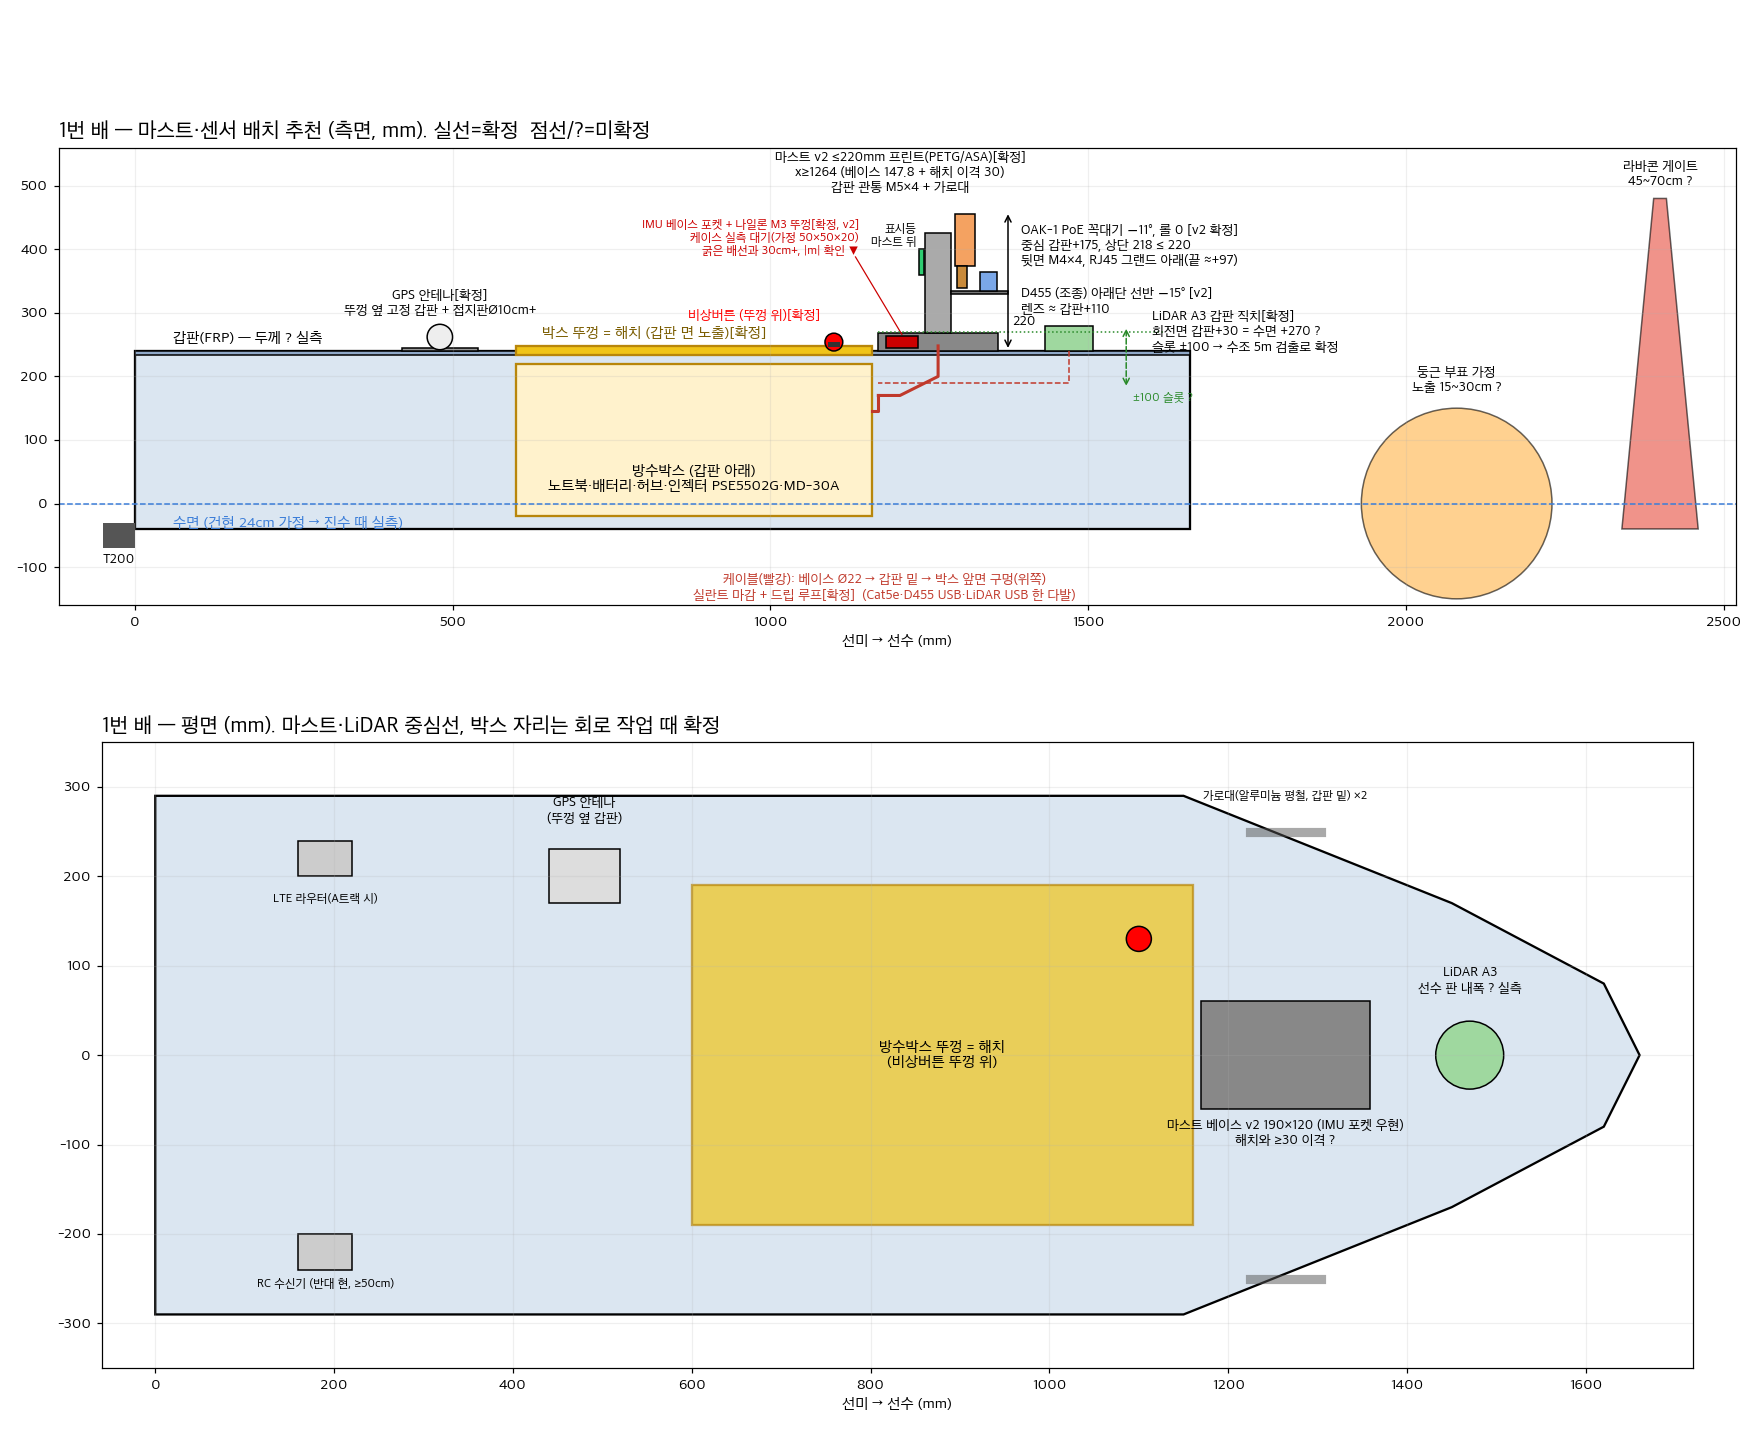
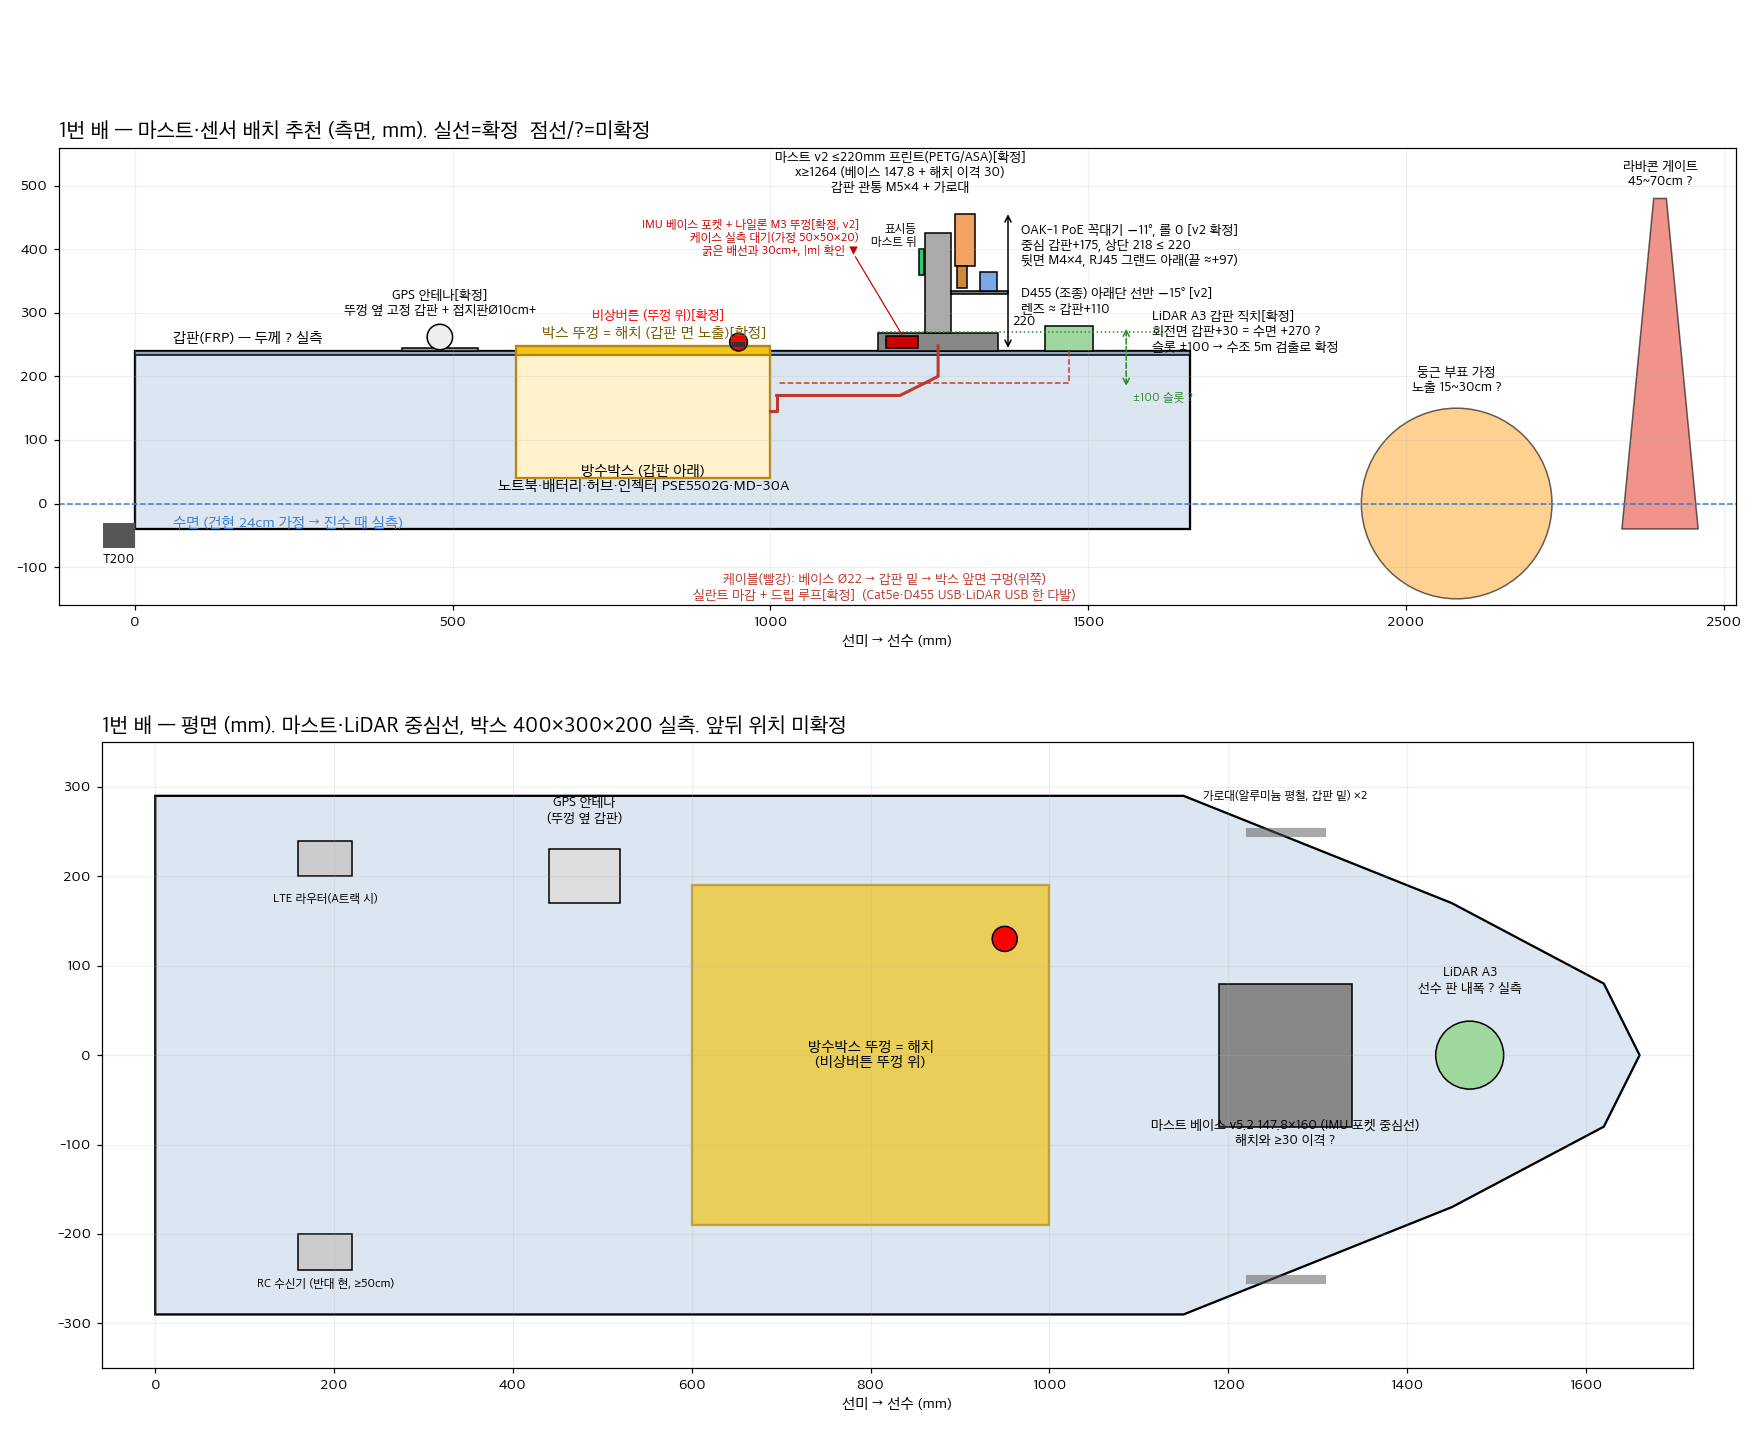
docs: 방수박스 실측 400x300x200 — 배치 한계 재계산, 배치도의 틀린 치수 정정
박스 실측치가 저장소에 없었다. 배치도 스크립트가 길이 560(600~1160)으로
그리고 있었는데 실측은 400 이다. 160mm 짧다.

높이 200:
  1번배 깊이 280 -> 들어감 (여유 80)
  2번배 깊이 185 -> 15mm 모자라 뚜껑이 갑판 위로 돌출. 팀 승인(09-17).
  돌출이 오히려 물 빠짐에 유리하다 — 평평하면 이음새에 물이 고인다.

폭:
  2번배 폭 430 이라 400 을 좌우로 두면 편측 15mm 뿐.
  -> 2번배는 300 을 좌우, 400 을 앞뒤로 놓는다. 1번배는 자유.

앞뒤 위치 (팀 요청 '앞에서 1/3'):
  제약 사슬 = 박스앞+30 <= 마스트베이스뒤, 마스트베이스앞+30 <= 라이다뒤
  1번배 한계 824~1224, 중심이 선수에서 38.3%. 1/3(33%)은 못 간다.
    1/3 을 맞추려면 라이다를 1470->1552 로 82mm 전진해야 하는데
    A3 는 방수가 아니고 선수 끝이 물보라 1순위라 치를 값이 아니다.
    이 안의 부수효과: 라이다 하네스 246mm(300 안), GPS 가림 15.9도(현재 17.2보다 개선)
  2번배는 마스트 1130 기준 626~1026, 중심 51.4%. GPS 접지판 여유가 31mm 뿐이다.

내부 24리터에 노트북·배터리2·MD-30A·인젝터·허브·Mega·GPS수신기·ESC4 가
들어가야 한다. ESC 발열 구획 요구까지 있어 실물 확인이 필요하다.

배치도 스크립트 정정: 박스 길이 400·높이 200, 마스트 베이스를 실제
147.8x160(placement.json)으로, 비상버튼을 뚜껑 위로. 위치는 미확정이라
박스 뒤끝 600 유지하고 전진안은 문서에만 남긴다.

diff --git a/tools/mast_recommend_plot.py b/tools/mast_recommend_plot.py
@@ -25,21 +25,22 @@ ax.add_patch(Rectangle((0, DECK - 6), L, 6, fc="#8fa8c8", ec="k", lw=1)); ax.tex
 # T200
 ax.add_patch(Rectangle((-50, -70), 50, 40, fc="#555")); ax.text(-50, -95, "T200", fontsize=9)
 # 방수박스 (갑판 아래) + 뚜껑=해치
-BX0, BX1 = 600, 1160
-ax.add_patch(Rectangle((BX0, FB - DEPTH + 20), BX1 - BX0, DECK - 20 - (FB - DEPTH + 20), fc="#fff2cc", ec="#b8860b", lw=1.5))
+BX0, BX1 = 600, 1000   # [09-17] 박스 실측 길이 400 (종전 560 은 틀린 도식값). 위치는 미확정 — 전진안은 배치_요구사항 §2-5
+BOX_H = 200   # [09-17] 실측 높이. 1번배는 갑판 밑에 다 들어간다(깊이 280)
+ax.add_patch(Rectangle((BX0, DECK - BOX_H), BX1 - BX0, BOX_H, fc="#fff2cc", ec="#b8860b", lw=1.5))
 ax.add_patch(Rectangle((BX0, DECK - 6), BX1 - BX0, 14, fc="#f0c419", ec="#b8860b", lw=1.5))
 ax.text((BX0 + BX1) / 2, FB - DEPTH + 60, "방수박스 (갑판 아래)\n노트북·배터리·허브·인젝터 PSE5502G·MD-30A", ha="center", fontsize=10)
 ax.text(BX0 + 40, DECK + 20, "박스 뚜껑 = 해치 (갑판 면 노출)[확정]", ha="left", fontsize=10, color="#7a5c00")
 # 비상버튼 on lid
-ax.add_patch(Circle((1100, DECK + 14), 14, fc="red", ec="k")); ax.add_patch(Rectangle((1090, DECK + 6), 20, 8, fc="#333"))
-ax.text(1078, DECK + 46, "비상버튼 (뚜껑 위)[확정]", ha="right", va="bottom", fontsize=9, color="red")
+ax.add_patch(Circle((950, DECK + 14), 14, fc="red", ec="k")); ax.add_patch(Rectangle((940, DECK + 6), 20, 8, fc="#333"))
+ax.text(928, DECK + 46, "비상버튼 (뚜껑 위)[확정]", ha="right", va="bottom", fontsize=9, color="red")
 # IMU
 # GPS 안테나 옆 고정 갑판
 GX = 480
 ax.add_patch(Rectangle((GX - 60, DECK), 120, 4, fc="#999", ec="k"))
 ax.add_patch(Circle((GX, DECK + 22), 20, fc="#eee", ec="k")); ax.text(GX, DECK + 56, "GPS 안테나[확정]\n뚜껑 옆 고정 갑판 + 접지판Ø10cm+", ha="center", fontsize=9)
 # 마스트
-MX = 1264   # [09-17] 1230→1264: 베이스 147.8 깊이 + 해치 이격 30
+MX = 1264   # 박스 전진안(§2-5) 채택 시 1328 로
 ax.add_patch(Rectangle((MX - 95, DECK), 190, 28, fc="#888", ec="k"))  # base v2 (IMU 포켓, 두께 IMU 높이 따라 20~28)
 ax.add_patch(Rectangle((MX - 20, DECK + 28), 40, 158, fc="#aaa", ec="k"))  # column → 캡 상단 186
 ax.add_patch(Rectangle((MX + 20, DECK + 89), 90, 6, fc="#777", ec="k"))  # D455 선반 (갑판+95, 관 면에서 40 물림)
@@ -71,13 +72,15 @@ ax.set_xlim(-120, L + 860); ax.set_ylim(-160, 560); ax.set_aspect("equal"); ax.s
 
 # ---------------- 평면도 ----------------
 W = 580
-ax2.set_title("1번 배 — 평면 (mm). 마스트·LiDAR 중심선, 박스 자리는 회로 작업 때 확정", fontsize=14, loc="left")
+ax2.set_title("1번 배 — 평면 (mm). 마스트·LiDAR 중심선, 박스 400×300×200 실측. 앞뒤 위치 미확정", fontsize=14, loc="left")
 hull = Polygon([[0, -W/2], [1150, -W/2], [1450, -W/2 + 120], [1620, -80], [1660, 0], [1620, 80], [1450, W/2 - 120], [1150, W/2], [0, W/2]], closed=True, fc="#dbe6f1", ec="k", lw=1.5)
 ax2.add_patch(hull)
 ax2.add_patch(Rectangle((BX0, -190), BX1 - BX0, 380, fc="#f0c419", ec="#b8860b", lw=1.5, alpha=0.7)); ax2.text((BX0 + BX1) / 2, 0, "방수박스 뚜껑 = 해치\n(비상버튼 뚜껑 위)", ha="center", va="center", fontsize=10)
-ax2.add_patch(Circle((1100, 130), 14, fc="red", ec="k"))
+ax2.add_patch(Circle((950, 130), 14, fc="red", ec="k"))
 ax2.add_patch(Rectangle((GX - 40, W/2 - 120), 80, 60, fc="#ddd", ec="k")); ax2.text(GX, W/2 - 30, "GPS 안테나\n(뚜껑 옆 갑판)", ha="center", fontsize=9)
-ax2.add_patch(Rectangle((MX - 95, -60), 190, 120, fc="#888", ec="k")); ax2.text(MX, -100, "마스트 베이스 v2 190×120 (IMU 포켓 우현)\n해치와 ≥30 이격 ?", ha="center", fontsize=9)
+# [09-17] placement.json: BASE_L=147.8(앞뒤) BASE_W=160(좌우)
+ax2.add_patch(Rectangle((MX - 73.9, -80), 147.8, 160, fc="#888", ec="k"))
+ax2.text(MX, -100, "마스트 베이스 v5.2 147.8×160 (IMU 포켓 중심선)\n해치와 ≥30 이격 ?", ha="center", fontsize=9)
 for yy in (-W/2 + 40, W/2 - 40): ax2.plot([MX - 40, MX + 40], [yy, yy], color="#555", lw=6, alpha=0.5)
 ax2.text(MX, W/2 - 5, "가로대(알루미늄 평철, 갑판 밑) ×2", ha="center", fontsize=8)
 ax2.add_patch(Circle((LX, 0), 38, fc="#9fd89f", ec="k")); ax2.text(LX, 70, "LiDAR A3\n선수 판 내폭 ? 실측", ha="center", fontsize=9)

diff --git a/docs/전달용/하드웨어_배치_요구사항.md b/docs/전달용/하드웨어_배치_요구사항.md
@@ -160,6 +160,52 @@
 - `min_obstacle_cells` 처럼 **점 개수에 의존하는 튜닝값은 배마다 다르게 동작한다.** 배별 설정에 분해능을 함께 적을 것.
 - 🚨 **본체에 물리 라벨을 붙여라.** 라벨이 지워져 겉으로 구분이 안 되고, **이미 같은 진단을 두 번 반복했다.**
 
+## 2-5. 방수박스 — 실측 치수와 배치 한계 (2026-09-17)
+
+**실측: 400(길이) × 300(폭) × 200(높이) mm.** 팀 보유품.
+⚠ 종전 배치도 스크립트는 길이 **560**(x 600~1160)으로 그려져 있었다 — **틀린 값**이다. 실측이 160mm 짧다.
+
+### 세로(높이) — 2번배는 뚜껑이 올라온다
+
+| 배 | 선체 깊이 | 박스 높이 200 | 판정 |
+|---|---|---|---|
+| 1번배 | 280 | 들어감 (여유 80) | 갑판 면에 뚜껑 맞춤 |
+| 2번배 | 185 | **15mm 모자람** | **뚜껑이 갑판 위로 15mm 돌출 — 팀 승인(2026-09-17)** |
+
+돌출은 오히려 물 빠짐에 유리하다(평평하면 이음새에 물이 고인다). 개스킷과 물끊기만 챙기면 된다.
+
+### 가로(폭) — 2번배는 방향이 정해진다
+
+| 배 | 선체 폭 | 400 을 좌우 | 300 을 좌우 |
+|---|---|---|---|
+| 1번배 | 580 | 편측 90 (OK) | 편측 140 (OK) |
+| 2번배 | 430 | 편측 **15** 🚨 | 편측 65 (OK) |
+
+→ **2번배는 300 을 좌우, 400 을 앞뒤로 놓는다.** 1번배는 자유.
+
+### 앞뒤(위치) — 마스트·라이다가 한계를 정한다
+
+제약 사슬: `박스 앞끝 + 30 ≤ 마스트 베이스 뒤끝` · `마스트 베이스 앞끝 + 30 ≤ 라이다 뒤끝`
+
+| 배 | 박스 | 중심(선수 기준) | 마스트 | 라이다→박스앞 | GPS 가림 |
+|---|---|---|---|---|---|
+| **1번배 최대전진안** | **824~1224** | 636 = **38.3%** | 1328 | **246mm** (하네스 300 안) | **15.9°** (현재 17.2° 보다 좋음) |
+| 2번배 (마스트 1130 유지) | 626~1026 | 874 = 51.4% | 1130 | 실측 필요 | 20.9° (경계) |
+
+- 팀 요청은 "앞에서 1/3(33%)" 이었다. **1번배는 38.3% 가 한계**다 — 1/3 을 맞추려면 라이다를 1470→1552 로 82mm 앞으로 빼야 하는데, **A3 는 방수가 아니고 선수 끝이 물보라 1순위**라 82mm 를 위해 치를 값이 아니다.
+- **2번배를 1/3 로 하려면** 마스트를 1130→1437(+307)로 옮겨야 하고 **뱃머리 거리가 570→263mm** 로 줄어 카메라 물 띠를 다시 계산해야 한다. 라이다 자리(1579)의 갑판 폭 214mm 는 Ø76 을 수용한다.
+- 🚨 **2번배 GPS 여유가 31mm 뿐이다**(박스 뒤 626 ↔ 접지판 앞끝 595). 박스를 뒤로 물리면 안테나를 덮는다.
+
+### 🚨 내부 용적이 빠듯하다
+
+400×300×200 = **24리터**. 여기에 노트북 · 4S 배터리 2 · MD-30A · PoE 인젝터 · USB 허브 · 아두이노 Mega · GPS 수신기 · ESC 4 가 들어간다.
+노트북만 눕혀도 바닥 대부분을 먹는다. **ESC 발열 구획**(`부품_추천목록.md` §8-3)까지 요구되므로 실물로 확인해야 한다.
+
+### 실측 대기
+
+- **2번배 라이다 x** — 저장소에 없다. 이게 없으면 2번배 박스 앞끝과 하네스 길이를 못 정한다.
+- 1번배 38.3% 안을 채택할지 여부(채택 시 마스트 1264→1328, **뱃머리 거리 396→332mm 로 D455 라이다 가림 재계산 필요**)
+
 ## 3. 높이 (측면) — ⚠ 흘수 추정치 기준, §0 부표 높이에 종속
 
 | 장비 | 갑판 기준 | 수면 기준 (2번 배, 건현 14cm 가정) | 수면 기준 (1번 배, 24cm) |
